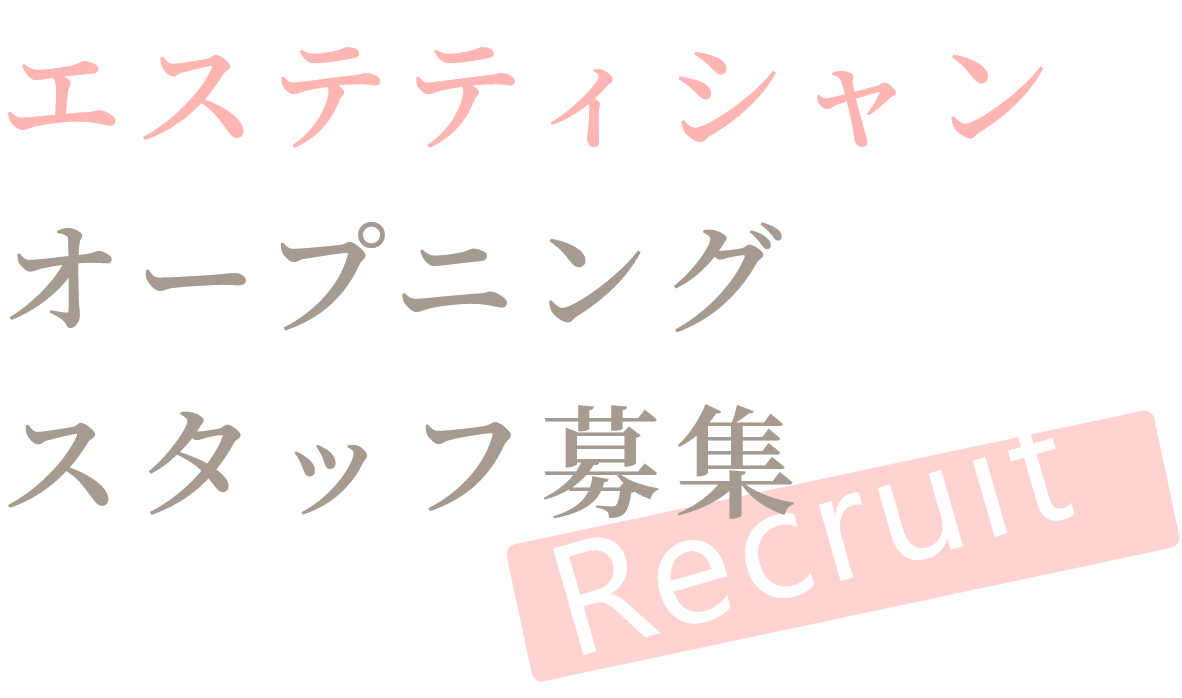
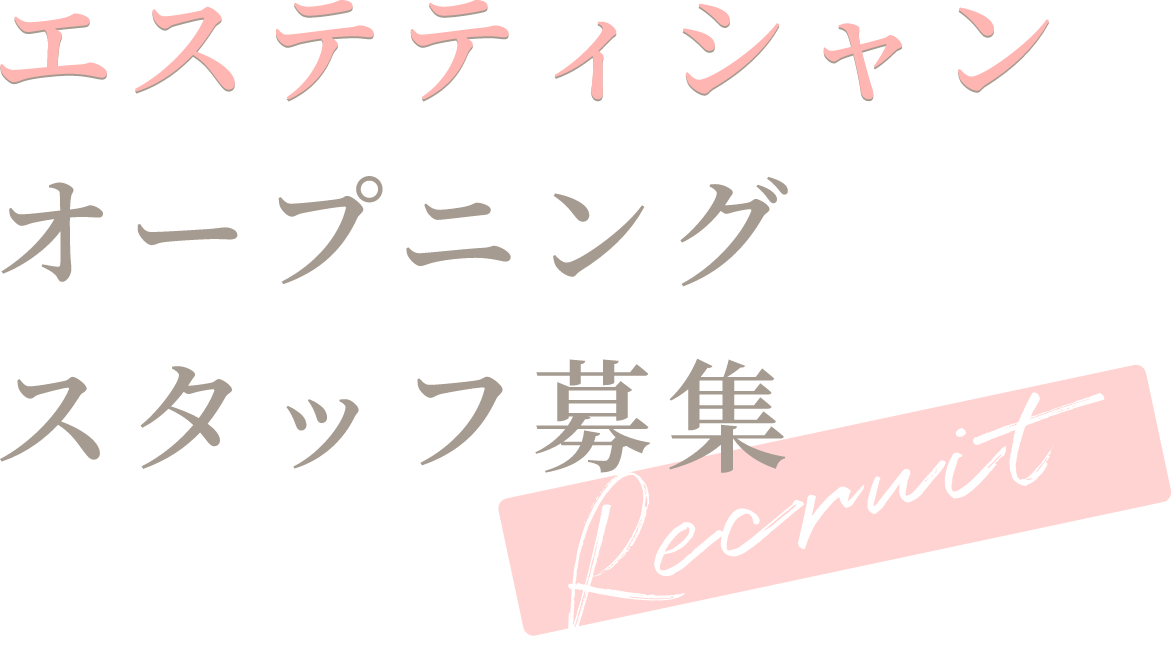
コーディング終了

diff --git a/index.html b/index.html
@@ -9,24 +9,25 @@
 	content="###">
 <meta http-equiv="X-UA-Compatible" content="IE=edge">
 <meta name="viewport" content="width=device-width, initial-scale=1">
-<link rel="icon" href="../biken/common/favicon/favicon.ico" type="image/x-icon">
-<link rel="icon" href="../biken/common/favicon/favicon.ico" type="image/vnd.microsoft.icon">
-<link rel="apple-touch-icon" href="../biken/common/favicon/apple-touch-icon.png">
+<link rel="icon" href="../common/favicon/favicon.ico" type="image/x-icon">
+<link rel="icon" href="../common/favicon/favicon.ico" type="image/vnd.microsoft.icon">
+<link rel="apple-touch-icon" href="../common/favicon/apple-touch-icon.png">
 <link rel="stylesheet" href="https://fonts.googleapis.com/css?family=Anton&display=swap">
-<link rel="stylesheet" href="../biken/common/css/import.css">
-<script type="text/javascript" src="../biken/common/js/jquery.js"></script>
-<script type="text/javascript" src="../biken/common/js/script.js"></script>
+<link rel="stylesheet" href="../common/css/import.css">
+<script type="text/javascript" src="../common/js/jquery.js"></script>
+<script type="text/javascript" src="../common/js/script.js"></script>
 </head>
 <body id="top">
 <div id="base">
 <header>
 <div id="head">
 	<div class="head_wrap">
-		<div class="site_logo"><a class="ov" href="/"><img src="../biken/common/image/head/logo.png" alt="La vraie beauté"></a></div>
-		<div id="head_contact" class="mincho pos_ar">
+		<div class="site_logo"><img src="../common/image/head/logo.png" alt="La vraie beauté"></div>
+		<div id="head_contact">
 			<div class="flex">
-				<p class="height-1 img"><img src="../biken/common/image/tel.png" alt="La vraie beauté"></p>
-				<p class="height-1"><a href="tel:0298220068" class="ov">029-822-0068</a></p>
+				<p class="height-1 img"><i class="fas fa-phone-alt"></i><img src="../common/image/tel.png" alt="La vraie beauté"></p>
+				<p class="height-1"><a href="tel:0298220068" class="ov"><span class="mincho">029-822-0068</span></a>
+				<span class="time">受付時間 00:00 ~ 24:00 (日曜定休)</span></p>
 			</div>
 		</div>
 	</div>
@@ -36,10 +37,11 @@
 <div id="top_unit">
 	<div id="main_image">
 		<div class="unit">
-			<div class="img_back"><img src="../biken/common/image/contents/top/main.jpg" alt="La vraie beauté"></div>
-			<div class="text">
+			<div class="img_back sp_none"><img src="../common/image/contents/top/main.jpg" alt="La vraie beauté"></div>
+			<div class="img_back pc_none"><img src="../common/image/contents/top/main_sp.jpg" alt="La vraie beauté"></div>
+			<div class="text sp_none">
 				<div class="center">
-					<div class="text_in"><img src="../biken/common/image/contents/top/text.png" alt="La vraie beauté"></div>
+					<div class="text_in"><img src="../common/image/contents/top/text.png" alt="La vraie beauté"></div>
 				</div>
 			</div>
 		</div>
@@ -49,7 +51,7 @@
 	<section>
 		<div id="top_flow">
 			<div class="wrapper-t center">
-				<h2><span class="main mincho">入社までの流れ</span><span class="sub">Flow</span></h2>
+				<h2><span class="main mincho">入社までの流れ</span><span class="sub"><img src="../common/image/contents/top/flow.png" alt="flow"></span></h2>
 				<div class="flex">
 					<div class="flow _1">
 						<div class="balloon">
@@ -58,12 +60,12 @@
 						</div>
 						<div class="box">
 							<div class="height-1">
-								<div class="mb30 pos_ac img"><img src="../biken/common/image/contents/top/icon1.png" alt="La vraie beauté"></div>
+								<div class="mb30 pos_ac img"><img src="../common/image/contents/top/icon1.png" alt="La vraie beauté"></div>
 								<h3>リクナビからご応募</h3>
 								<p class="pos_ac mb20">まずはリクナビより<br>エントリーください。</p>
 								<div class="link">
 									<a href="###" class="ov">
-										<img src="../biken/common/image/contents/top/link.png" alt="La vraie beauté">
+										<img src="../common/image/contents/top/link.png" alt="La vraie beauté">
 									</a>
 								</div>
 							</div>
@@ -80,7 +82,7 @@
 						</div>
 						<div class="box">
 							<div class="height-1">
-								<div class="mb30 pos_ac img"><img src="../biken/common/image/contents/top/icon2.png" alt="La vraie beauté"></div>
+								<div class="mb30 pos_ac img"><img src="../common/image/contents/top/icon2.png" alt="La vraie beauté"></div>
 								<h3>選考実施（面接）</h3>
 								<p class="pos_ac">ご都合が良い時間・場所で<br>実施いただけます。面接は各院、<br>またはwEB面接（スカイプ等）<br>にて対応しています！</p>
 							</div>
@@ -97,7 +99,7 @@
 						</div>
 						<div class="box">
 							<div class="height-1">
-								<div class="mb30 pos_ac img"><img src="../biken/common/image/contents/top/icon3.png" alt="La vraie beauté"></div>
+								<div class="mb30 pos_ac img"><img src="../common/image/contents/top/icon3.png" alt="La vraie beauté"></div>
 								<h3>内定</h3>
 								<p class="pos_ac">内定者へは研修スケジュール等の<br>ご案内をいたします。</p>
 							</div>
@@ -110,26 +112,28 @@
 	<section>
 		<div id="top_contact" class="wrapper">
 			<div class="center">
-				<h2 class="mb40"><span class="main mincho">採用に関するお問い合わせ</span><span class="sub">Contact</span></h2>
-				<div class="row">
-					<div class="unit">
-						<div class="col-xs-6">
-							<div class="box height-1">
-								<div id="tel">
-									<div class="mincho pos_ar">
-										<div class="flex">
-											<p class="height-2 img"><img src="../biken/common/image/tel.png" alt="La vraie beauté"></p>
-											<p class="height-2"><a href="tel:0298220068" class="ov">029-822-0068</a></p>
+				<div class="back">
+					<h2 class="mb40"><span class="main mincho">採用に関する<br class="visible-only">お問い合わせ</span><span class="sub"><img src="../common/image/contents/top/contact.png" alt="contact"></span></h2>
+					<div class="row">
+						<div class="unit">
+							<div class="col-xs-6">
+								<div class="box height-1">
+									<div id="tel">
+										<div class="mincho pos_ar">
+											<div class="flex">
+												<p class="height-2 img"><img src="../common/image/tel.png" alt="La vraie beauté"></p>
+												<p class="height-2"><a href="tel:0298220068" class="ov">029-822-0068</a></p>
+											</div>
 										</div>
+										<p class="time">受付時間　0：00〜24：00（日曜定休）</p>
 									</div>
-									<p class="time">受付時間　0：00〜24：00（日曜定休）</p>
 								</div>
 							</div>
-						</div>
-						<div class="col-xs-6">
-							<div class="box height-1 disp_tbl">
-								<div id="mail" class="disp_td">
-									<p class="mincho pos_ac"><i class="far fa-envelope"></i>メールでのお問い合わせ</p>
+							<div class="col-xs-6">
+								<div class="box height-1 disp_tbl">
+									<div id="mail" class="disp_td">
+										<p class="mincho pos_ac"><i class="far fa-envelope"></i>メールでの<br class="pc_none">お問い合わせ</p>
+									</div>
 								</div>
 							</div>
 						</div>
@@ -143,8 +147,8 @@
 <footer>
 <div id="foot">
 	<div class="foot_wrap center mb50">
-		<div class="mb20 logo"><a class="ov" href="/"><img src="../biken/common/image/foot/logo.png" alt="La vraie beauté"></a></div>
-		<p>株式会社美研<br>茨城県土浦市大和町7-26　尾形テナントⅡ 2F</p>
+		<div class="mb20 logo"><a class="ov" href="/"><img src="../common/image/foot/logo.png" alt="La vraie beauté"></a></div>
+		<p class="mb20">株式会社美研<br>茨城県土浦市大和町7-26　尾形テナントⅡ 2F</p>
 	</div>
 	<div id="copyright">&copy; 2020 La vraie beauté  All Rights Reserved.</div>
 </div>

diff --git a/common/css/style.css b/common/css/style.css
@@ -15,7 +15,8 @@
 	@media (max-width: 767px){
 		#main_image .unit .center { padding-bottom:50px; }
 		#main_image .unit .text_in { vertical-align:bottom; }
-		#main_image .unit .text img { width:74%; }
+
+
 	}
 	@media (min-width: 768px){
 		#main_image,
@@ -23,6 +24,19 @@
 		#main_image .unit .text_in { vertical-align:middle; }
 		#main_image .unit .text img { width:58%; }
 	}
+
+	@media (min-width: 768px) and (max-width:1599px){
+		#main_image .unit .text img {width: 45%; margin-top: 100px; margin-left: 50px;}
+	}
+	@media (min-width: 1600px)  and (max-width:1919px){
+		#main_image .unit .text img { width:50%; }
+
+	}
+	@media (min-width: 1920px){
+		#main_image .unit .text img { width:60%; }
+		#main_image .unit .center { margin-left: 200px;   margin-top: 50px;}
+	}
+
 
 #body{  background: url(../image/contents/top/back.png) no-repeat center top / cover;}
 
@@ -47,6 +61,7 @@
     margin: auto;
 }
 #top_flow h2{margin-bottom: 100px;}
+#top_flow h2 span.sub{max-width: 150px;}
 #top_flow .balloon::before{ content: ''; position: absolute; display: block; bottom: -12px; left: 50%; margin-left: -6px; border-right: 6px solid transparent; border-top: 12px solid #FFB5B1; border-left: 6px solid transparent;}
 
 #top_flow .balloon::after{ content: ''; position: absolute; display: block; width: 0; height: 0; left: 38px; bottom: -10px; border-right: 6px solid transparent; border-top: 12px solid #fff; border-left: 6px solid transparent;}
@@ -76,26 +91,47 @@
 	#top_flow .flex .arrow{margin-bottom: 100px; text-align: center;}
 	#top_flow .flex .arrow i{ font-size: 8em;}
 }
-#top_contact .center{background: url(../image/contents/top/contact.png);     padding: 50px 0;     border-radius: 5px;}
+
+#top_contact .back{background: url(../image/contents/top/contact_back.png); border-radius: 5px;    padding: 50px 15px;}
+
+
 #top_contact h2{color: #FFF;}
-#top_contact h2 span.sub{color: #D9B4AB;}
+#top_contact h2 span.sub{max-width: 230px;}
 #top_contact .box{ border-radius: 5px; box-shadow: 0px 2px 7px 0px #ccc; background: #fff; }
-#top_contact .unit{padding: 0 50px;}
+#top_contact #tel{padding: 25px 10px;}
+#top_contact #mail{padding: 0 10px;}
 #top_contact #tel .flex{display: flex;  justify-content: center; }
 #top_contact #tel .flex .img{display: flex; align-items: center;}
+#top_contact #tel .time{text-align:center; color: #909090;}
 #top_contact #tel a { text-decoration:none; color: #FFB0AC; font-size: 40px; font-weight: bold;}
 #top_contact #tel img{ width: 50px;}
 #top_contact #mail p{color: #FFB0AC; font-size: 28px; font-weight: bold;}
 #top_contact #mail p i{margin-right: 10px;}
+
+@media (min-width: 768px){
+	#top_contact .unit{padding: 0 50px;}
+}
+@media (max-width: 991px){
+	#top_contact #tel a { font-size: 30px;}
+}
+@media (max-width: 767px){
+	#top_contact #tel {margin-bottom: 10px;}
+	#top_contact #tel a{font-size: 27px;}
+	#top_contact #tel img { width: 30px;}
+}
+
 
 /*===================================================================
 	hl
 ===================================================================*/
 h2 { font-size: 44px; line-height: 125%; color: #FFB5B1; text-align: center;}
 h2 span.main{font-weight: bold;}
-h2 span.sub{ display: block; color: #E5C7C0; font-size: 40px; }
+h2 span.sub{ display: block; display: block;
+    margin: 0 auto;}
 h3{font-size:30px; text-align: center; color: #FFB5B1; margin-bottom: 20px; font-weight: bold;}
-
+@media (max-width: 767px){
+	h2 {font-size: 40px;}
+}
 
 /*===================================================================
 	button

diff --git a/common/css/layout.css b/common/css/layout.css
@@ -43,15 +43,63 @@ body { position:relative; text-align:center; overflow-x:hidden; }
 /*===================================================================
 	#head
 ===================================================================*/
-#head { position:absolute; left:0; top:0; width:100%; z-index:990; text-align:left; }
+#head {left:0; top:0; width:100%; z-index:990; text-align:left; }
 #head .head_wrap { position:relative; display:table; width:100%; margin:0 auto; }
-#head .head_wrap > * { display:table-cell; vertical-align:top; }
-#head .site_logo {}
 #head .site_logo a { display:block; max-width:600px; }
-#head_contact .flex{display: flex;  justify-content: flex-end; margin-right: 50px;}
+#head_contact .flex{display: flex;}
 #head_contact .flex .img{display: flex; align-items: center;}
 #head_contact a { text-decoration:none; color: #FFB0AC; font-size: 40px; font-weight: bold;}
 #head_contact img{ width: 50px;}
+#head_contact span.time{display: block; color: #555555; font-weight: bold; line-height: 5px; }
+
+@media (min-width: 768px){
+	#head_contact{text-align: right;}
+	#head { position:absolute; }
+	#head .site_logo {max-width: 150px;}
+	#head .head_wrap > * { display:table-cell; vertical-align:top; }
+	#head .head_wrap {display:table;}
+	#head_contact .flex{justify-content: flex-end; margin-right: 50px;}
+
+}
+@media (max-width: 767px){
+	#head_contact{ margin: 30px 0;}
+	#head .site_logo {width: 100%;}
+	#head_contact .flex {justify-content: center;}
+	#head_contact span.time { text-align: center;}
+	#head_contact a { font-size: 35px;}
+}
+
+
+	@media (min-width: 768px) and (max-width:1199px){
+		#head .site_logo { max-width: 350px;}
+		#head_contact a {    font-size: 30px;}
+		#head_contact span.time {font-size: 13px;}
+	}
+	@media (min-width: 1200px) and (max-width:1599px){
+		#head_contact span.time { padding: 0px 15px;}
+		#head .site_logo { max-width: 250px;}
+	}
+
+	@media (max-width: 767px){
+		#head_contact .fa-phone-alt{ display: none;}
+	}
+	@media (min-width: 768px){
+		#head_contact .fa-phone-alt{ display: none;}
+	}
+
+	@media (min-width: 768px) and (max-width:1599px){
+		#head_contact {    text-shadow: 0 0 5px #fff, 0 0 5px #fff, 0 0 10px #fff, 0 0 10px #fff}
+		#head_contact .fa-phone-alt{display: block; font-size: 29px; color: #FFB0AC; margin-right: 5px; }
+		#head_contact .img img{display: none;}
+	}
+	@media (min-width: 1600px)  and (max-width:1919px){
+		#head_contact .fa-phone-alt{ display: none;}
+
+	}
+	@media (min-width: 1920px){
+		#head_contact .fa-phone-alt{ display: none;}
+
+	}
 
 
 /*===================================================================

diff --git a/common/js/script.js b/common/js/script.js
@@ -1,5 +1,5 @@
 // jquery.matchHeight-min.js
-document.write('<script type="text/javascript" src="../biken/common/js/jquery.matchHeight-min.js"></script>');
+document.write('<script type="text/javascript" src="common/js/jquery.matchHeight-min.js"></script>');
 var ua = navigator.userAgent;
 var os, ver = '', browser = '', ie = '', sp = 0;
 var bpx = 768;
@@ -161,10 +161,10 @@ $(function () {
 	$('#btn_open a').on('click', function () {
 		$('#base').toggleClass('open');
 		if ($('#menu_cover').get(0)) {
-			$(this).html('<img src="../biken/common/image/head/sp_menu.png" alt="">');
+			$(this).html('<img src="common/image/head/sp_menu.png" alt="">');
 			$('#menu_cover').remove();
 		} else {
-			$(this).html('<img src="../biken/common/image/head/sp_menu_b.png" alt="">');
+			$(this).html('<img src="common/image/head/sp_menu_b.png" alt="">');
 			$('#base').append('<div id="menu_cover"></div>');
 		}
 		return false;
@@ -279,8 +279,8 @@ function ParallaxScroll() {
 }
 
 // slick
-document.write('<script type="text/javascript" src="../biken/common/js/slick/slick.min.js"></script>');
-document.write('<link rel="stylesheet" href="../biken/common/js/slick/slick.css" type="text/css">');
+document.write('<script type="text/javascript" src="common/js/slick/slick.min.js"></script>');
+document.write('<link rel="stylesheet" href="common/js/slick/slick.css" type="text/css">');
 
 $(function () {
 		$('#search').slick({

diff --git a/common/js/top.js b/common/js/top.js
@@ -18,8 +18,8 @@ $(function () {
 });
 
 // slick
-document.write('<script type="text/javascript" src="../biken/common/js/slick/slick.min.js"></script>');
-document.write('<link rel="stylesheet" href="../biken/common/js/slick/slick.css" type="text/css">');
+document.write('<script type="text/javascript" src="common/js/slick/slick.min.js"></script>');
+document.write('<link rel="stylesheet" href="common/js/slick/slick.css" type="text/css">');
 
 // for top
 $(function () {

diff --git a/info.php b/info.php
@@ -1,0 +1,1 @@
+<?php phpinfo(); ?>
